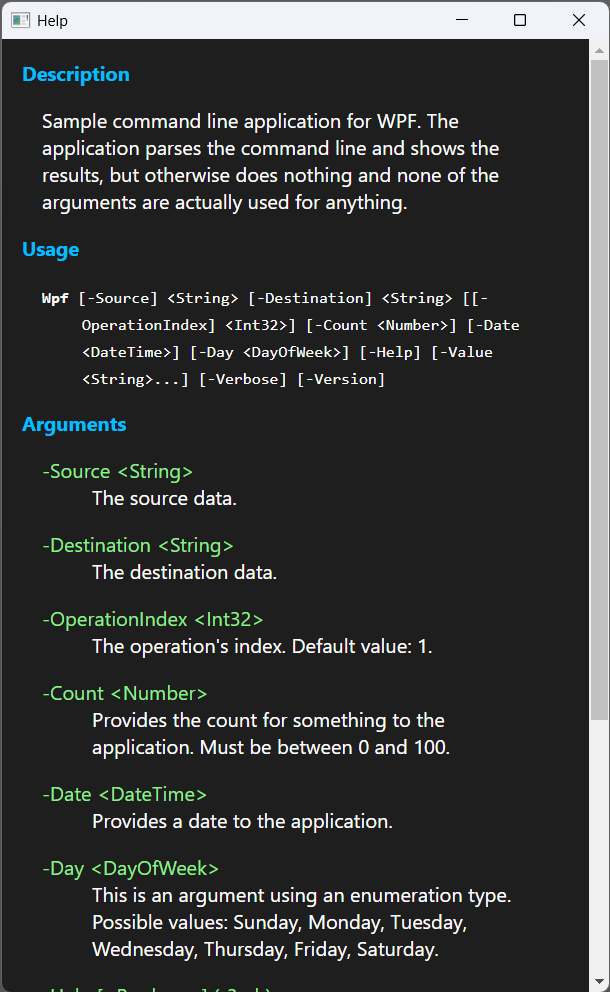
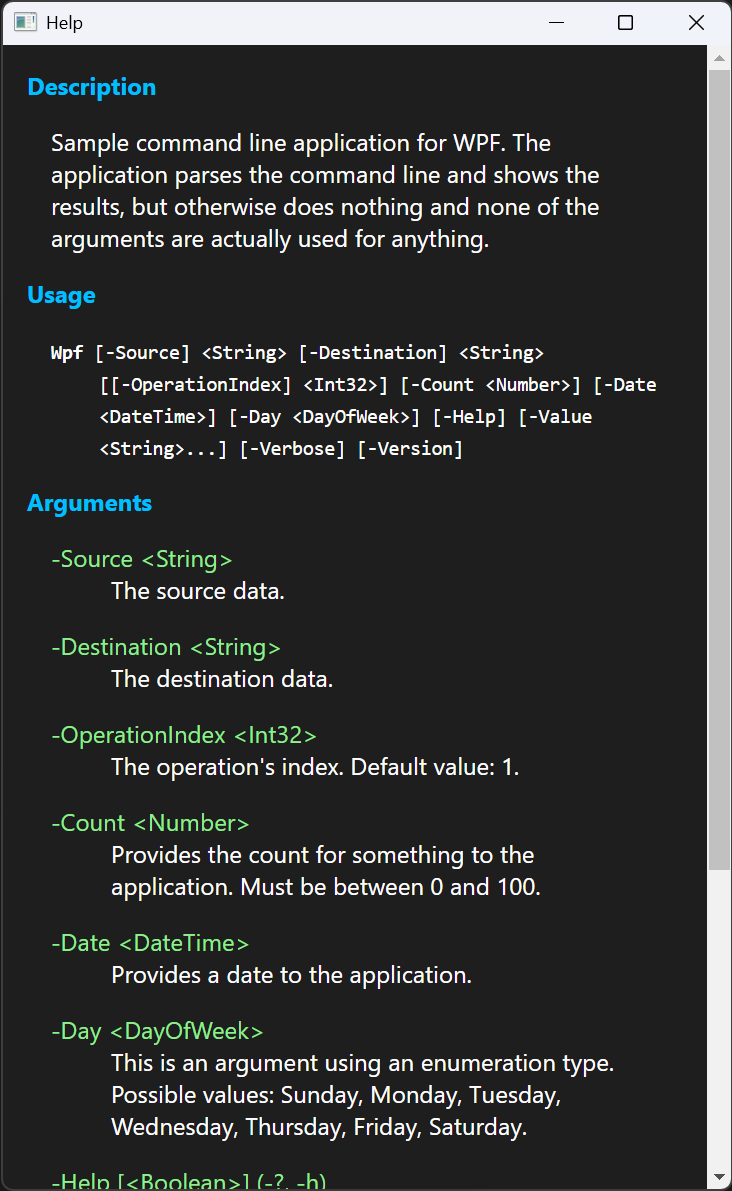
Small WPF sample tweak.

diff --git a/src/Samples/Wpf/HtmlUsageWriter.cs b/src/Samples/Wpf/HtmlUsageWriter.cs
@@ -54,6 +54,14 @@ internal class HtmlUsageWriter : UsageWriter
         Writer.Write($"<strong>{ExecutableName}</strong>");
     }
 
+    // Prevent wrapping after the argument name prefix.
+    protected override void WriteArgumentName(string argumentName, string prefix)
+    {
+        Writer.Write("<span class=\"argument\">");
+        base.WriteArgumentName(argumentName, prefix);
+        Writer.Write("</span>");
+    }
+
     // Header and description list for descriptions.
     protected override void WriteArgumentDescriptions()
     {
@@ -81,6 +89,10 @@ internal class HtmlUsageWriter : UsageWriter
         Writer.Write("</dd>");
     }
 
+    // Prevent wrapping after the argument name prefix.
+    protected override void WriteArgumentNameForDescription(string argumentName, string prefix)
+        => WriteArgumentName(argumentName, prefix);
+
     // Make sure all text is HTML encoded.
     protected override void Write(string? value)
     {
@@ -107,7 +119,7 @@ internal class HtmlUsageWriter : UsageWriter
             color: deepskyblue;
         }
         dt {
-            color:lightgreen;
+            color: lightgreen;
         }
         dd {
             margin-bottom: 1em;
@@ -115,6 +127,9 @@ internal class HtmlUsageWriter : UsageWriter
         #usage {
             text-indent: -2em;
             margin-left: 2em;
+        }
+        .argument {
+            white-space: nowrap;
         }
     </style>
 </head>

diff --git a/src/Samples/Wpf/README.md b/src/Samples/Wpf/README.md
@@ -19,13 +19,14 @@ The sample uses a simple CSS stylesheet to format the usage help; you can make t
 like, of course.
 
 This is by no means the only way. Since all the information needed to generate usage help is
-available in the `CommandLineParser` class, you could just as easily forego the `UsageWriter`
-entirely and use XAML page to show the usage.
+available in the `CommandLineParser` class, you could for example use a custom XAML page to show
+the usage.
 
-This sample also defines a custom "-Version" argument. The automatic one that gets added by
-Ookii.CommandLine writes to the console, so isn't useful here. This manual implementation shows
-the version information in a dialog box.
+This sample also defines a custom `-Version` argument; the automatic one that gets added by
+Ookii.CommandLine writes to the console, so it isn't useful here. This manual implementation shows
+the same version information in a dialog box.
 
-A similar approach would work for Windows Forms, or other GUI framework.
+A similar approach would work for Windows Forms, or any other GUI framework.
 
-This application is very basic; it's just a sample, and I don't do a lot of GUI work nowadays. Sorry.
+This application is very basic; it's just a sample, and I don't do a lot of GUI work nowadays. It's
+just intended to show how the `UsageWriter` can be adapted to work in the context of a GUI app.
